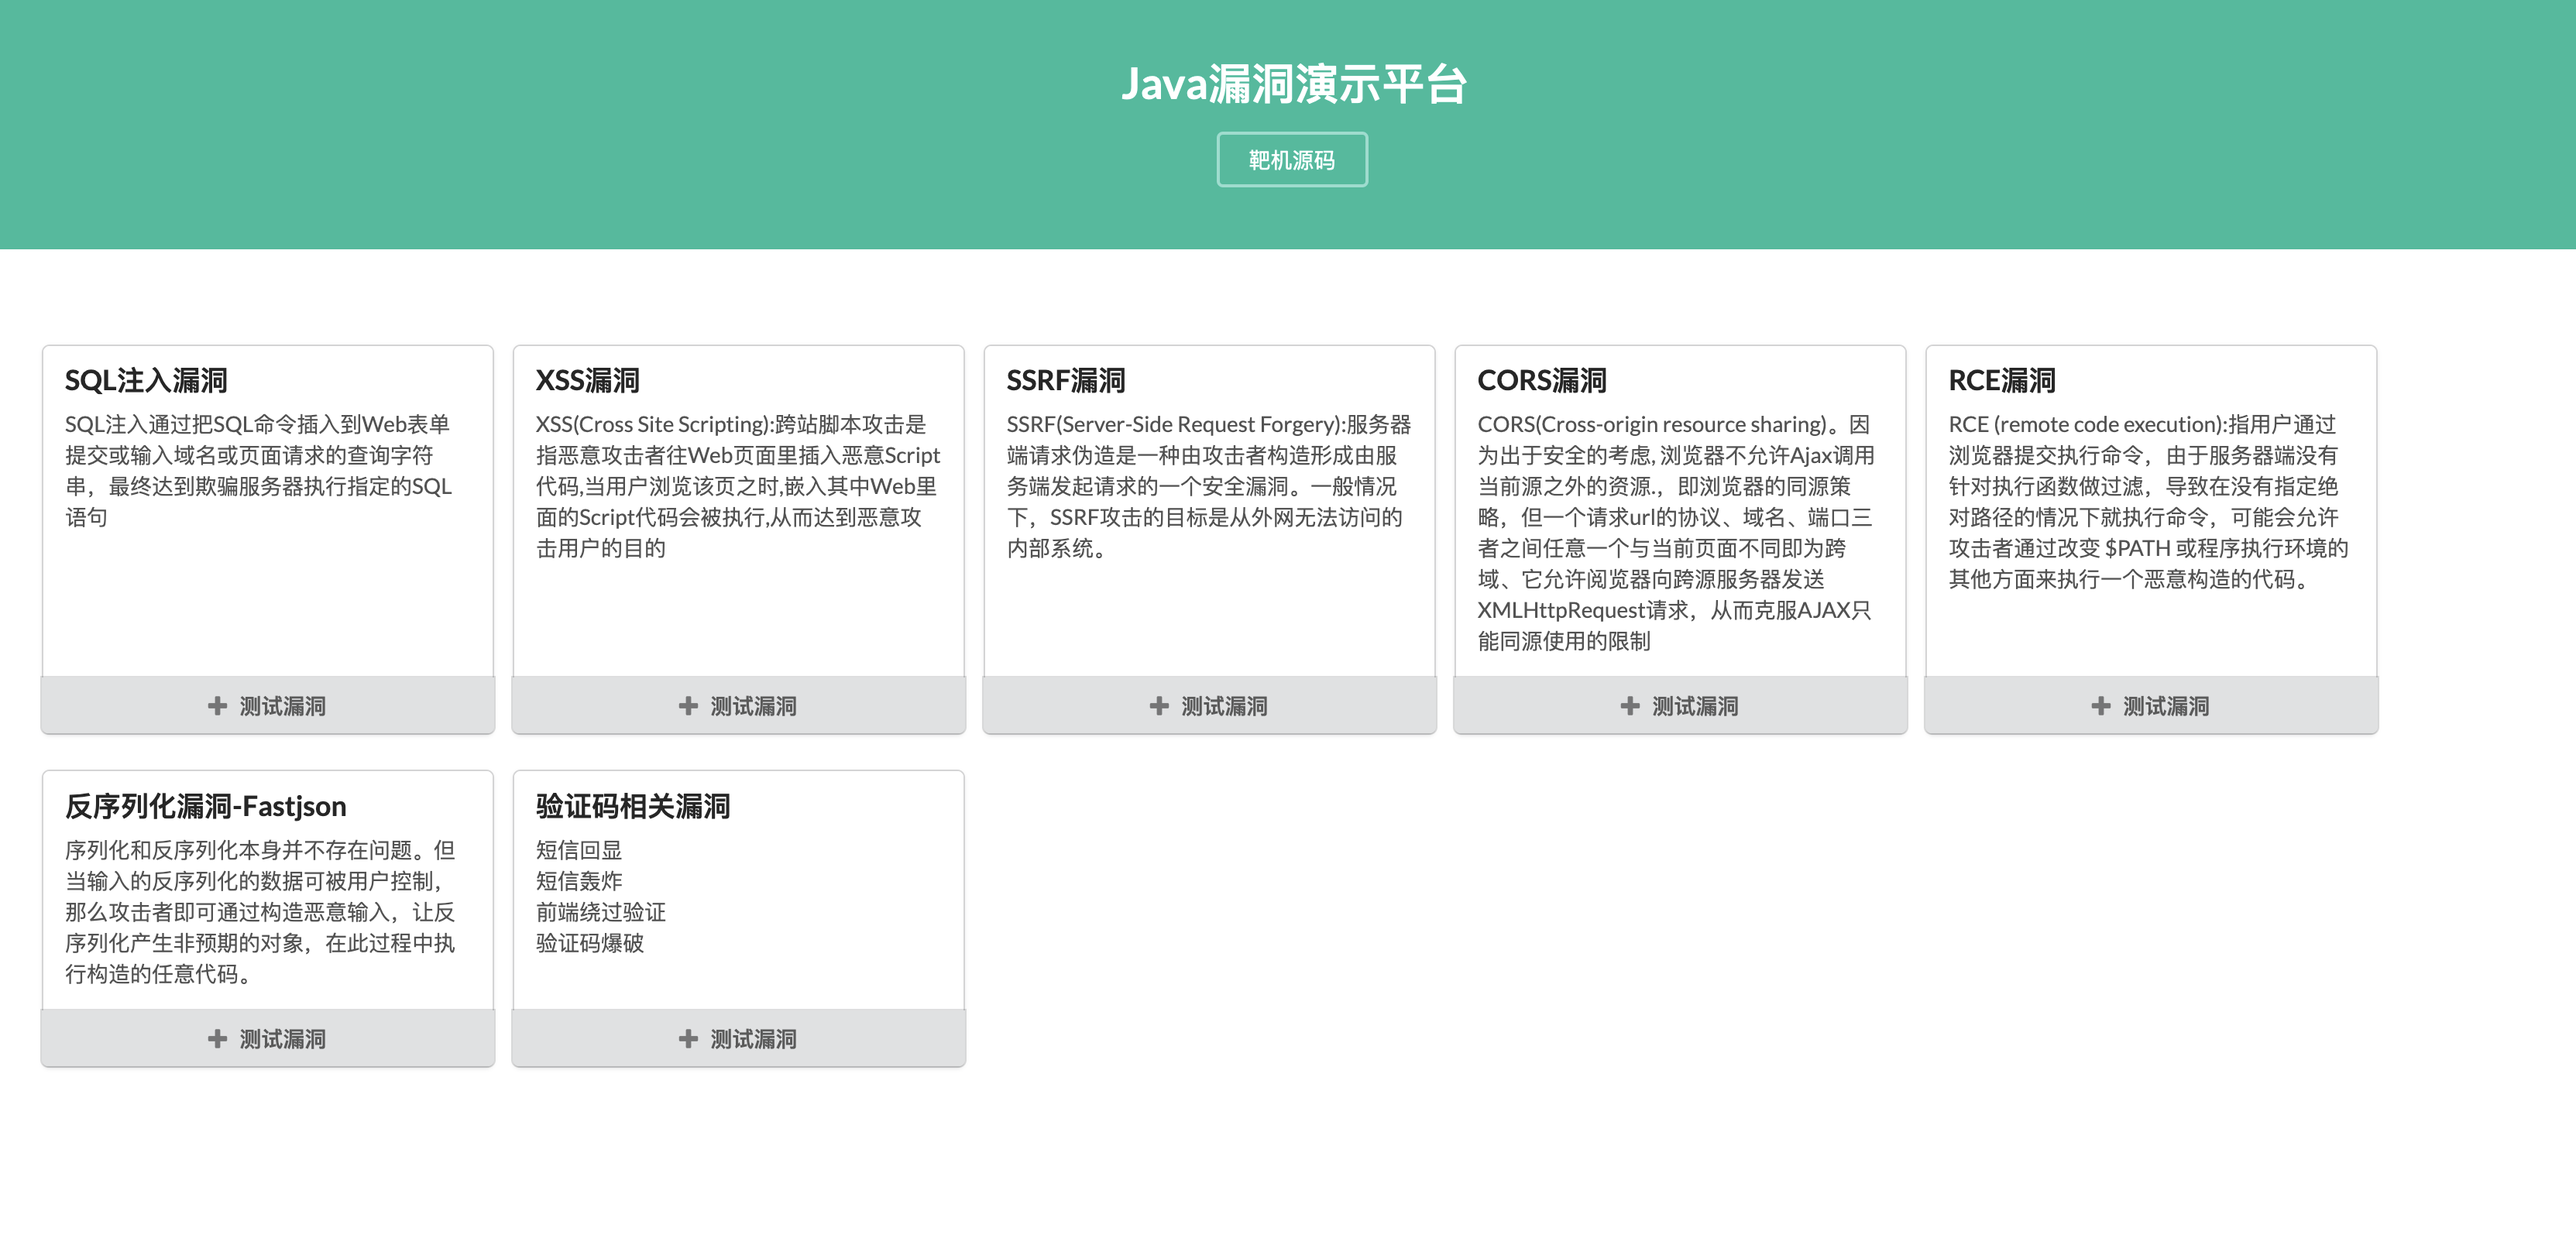
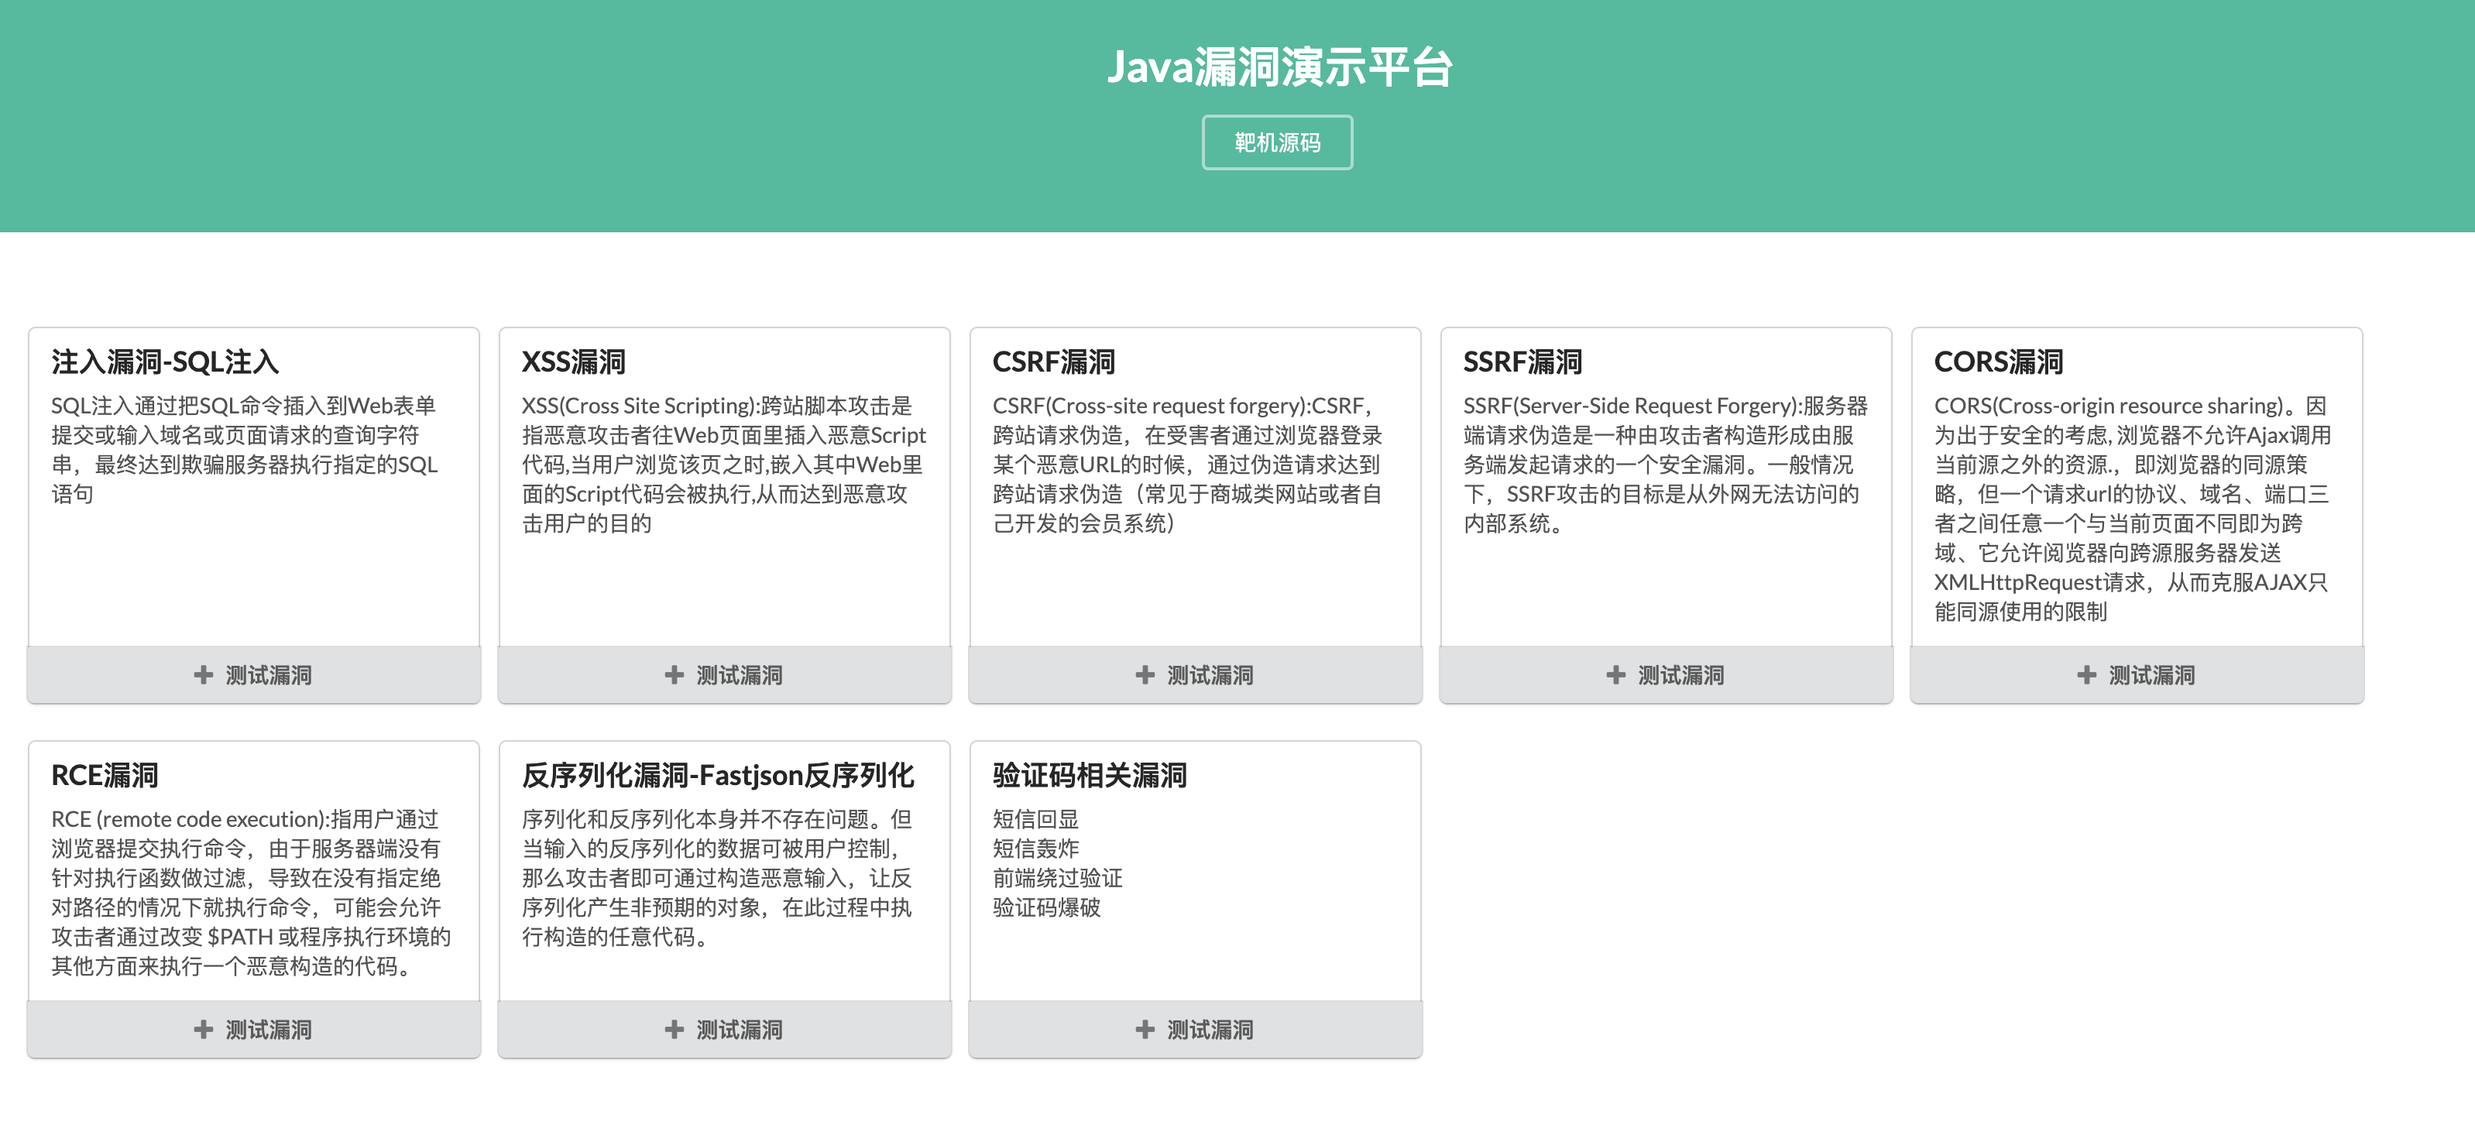
add csrf

Changed region(s): [[0.0, 0.2763, 0.9603, 0.9516], [0.0, 0.1842, 1.0, 0.2149], [0.4337, 0.0307, 0.5885, 0.1535]]

diff --git a/src/main/resources/templates/csrf/csrf.html b/src/main/resources/templates/csrf/csrf.html
@@ -1,10 +1,59 @@
 <!DOCTYPE html>
-<html lang="en">
+<html lang="en" xmlns:th="http://www.thymeleaf.org">
 <head>
   <meta charset="UTF-8">
-  <title>$Title$</title>
+  <title>Java漏洞靶场</title>
+  <link rel="stylesheet" href="https://cdn.jsdelivr.net/npm/semantic-ui@2.4.2/dist/semantic.min.css">
+  <script src="https://cdn.bootcdn.net/ajax/libs/jquery/3.6.0/jquery.js"></script>
 </head>
+
+
 <body>
-$END$
+
+<div style="padding: 40px;
+    text-align: center;
+    background: #1abc9c;
+    color: white;">
+  <h1>Java漏洞演示平台</h1>
+  <button class="ui inverted secondary basic button"><a style="color: white" th:href="home">回到首页</a></button>
+</div>
+
+<div style="text-align: center;margin: 0px auto;
+     margin-top: 50px;">
+  <input id="id" type="text" placeholder="请输入id"><br><br>
+  <input id="name" type="text" placeholder="请输入用户名"><br><br>
+  <input id="pwd" type="password" placeholder="请输入密码"><br><br>
+  <input id="start" type="submit" value="注册">
+  <p></p>
+</div>
+
+<script>
+$("#start").click(function () {
+        var user= {
+        "id" : $("#id").val(),
+        "name" : $("#name").val(),
+        "pwd" : $("#pwd").val()
+        };
+        $.ajax({
+            type : "POST",
+            async : true,
+            contentType: "application/x-www-form-urlencoded; charset=utf-8",
+            data : user,
+            success : function(){
+　　　　　　      alert('注册成功');
+                window.location.href ="../csrf";
+            },
+            error : function(){
+　　　　　　      alert('注册失败');
+                window.location.href ="../csrf";
+            },
+        })
+    }
+);
+
+<!--</script>-->
+
+
 </body>
 </html>
+

diff --git a/src/main/resources/templates/index.html b/src/main/resources/templates/index.html
@@ -36,6 +36,14 @@
     </div>
     <div class="card">
         <div class="content">
+            <div class="header">CSRF漏洞</div>
+            <div class="description">CSRF(Cross-site request forgery):CSRF，跨站请求伪造，在受害者通过浏览器登录某个恶意URL的时候，通过伪造请求达到跨站请求伪造（常见于商城类网站或者自己开发的会员系统）</div>
+        </div>
+        <a  class="ui bottom attached button" th:href="@{/csrf}" ><i class="add icon"></i>测试漏洞</a>
+
+    </div>
+    <div class="card">
+        <div class="content">
             <div class="header">SSRF漏洞</div>
             <div class="description">SSRF(Server-Side Request Forgery):服务器端请求伪造是一种由攻击者构造形成由服务端发起请求的一个安全漏洞。一般情况下，SSRF攻击的目标是从外网无法访问的内部系统。</div>
         </div>

diff --git a/src/main/resources/templates/csrf/csrfoutput.html b/src/main/resources/templates/csrf/csrfoutput.html
@@ -1,10 +1,23 @@
 <!DOCTYPE html>
-<html lang="en">
+<html lang="en" xmlns:th="http://www.thymeleaf.org">
 <head>
-  <meta charset="UTF-8">
-  <title>$Title$</title>
+    <meta charset="UTF-8">
+    <title>Java漏洞靶场</title>
+    <link rel="stylesheet" href="https://cdn.jsdelivr.net/npm/semantic-ui@2.4.2/dist/semantic.min.css">
 </head>
 <body>
-$END$
+
+<div style="padding: 40px;
+    text-align: center;
+    background: #1abc9c;
+    color: white;">
+    <h1>Java漏洞演示平台</h1>
+    <button class="ui inverted secondary basic button"><a style="color: white" th:href="home">回到首页</a></button>
+</div>
+
+<!--<div style="text-align: center;margin: 0px auto;-->
+<!--     margin-top: 50px;">结果为：<p th:text="${result.username}"></p>今年<p th:text="${result.age}"></p>岁-->
+
+<!--</div>-->
 </body>
 </html>

diff --git a/src/main/resources/templates/sql/sql.html b/src/main/resources/templates/sql/sql.html
@@ -26,9 +26,9 @@
             <input type="submit" value="搜索">
         </form>
         <p></p>
-        <p>提示</p>
-        <p>"txf" and "1"="1"</p>
-        <p>"txf" and "1"="2"</p>
+<!--        <p>提示</p>-->
+<!--        <p>"txf" and "1"="1"</p>-->
+<!--        <p>"txf" and "1"="2"</p>-->
     </div>
     <table class="ui celled table" style="margin-top: 40px">
         <thead>

diff --git a/src/main/java/com/suyu/secexample/csrf/controller/csrfcontroller.java b/src/main/java/com/suyu/secexample/csrf/controller/csrfcontroller.java
@@ -1,2 +1,42 @@
-package com.suyu.secexample.csrf.controller;public class csrfcontroller {
+package com.suyu.secexample.csrf.controller;
+
+import com.alibaba.fastjson.JSON;
+import com.alibaba.fastjson.JSONObject;
+import com.suyu.secexample.csrf.model.User;
+import com.suyu.secexample.csrf.service.UsernameService;
+import org.springframework.beans.factory.annotation.Autowired;
+import org.springframework.stereotype.Controller;
+import org.springframework.ui.Model;
+import org.springframework.web.bind.annotation.GetMapping;
+import org.springframework.web.bind.annotation.RequestBody;
+import org.springframework.web.bind.annotation.RequestMapping;
+
+@Controller
+public class csrfcontroller {
+    User user = new User();
+    @Autowired
+    private UsernameService userService;
+
+    @GetMapping("/csrf")
+    public String input() {
+        return "csrf/csrf";
+    }
+
+        @RequestMapping("/csrf")
+    public String addUser(User user1, Model model) {
+        user.setId(user1.getId());
+        user.setName(user1.getName());
+        user.setPwd(user1.getPwd());
+        userService.addUser(user);
+        return "csrf/csrf";
+    }
+
 }
+
+
+
+
+
+
+
+

diff --git a/src/main/java/com/suyu/secexample/csrf/service/impl/UsernameServiceImpl.java b/src/main/java/com/suyu/secexample/csrf/service/impl/UsernameServiceImpl.java
@@ -1,21 +1,20 @@
 package com.suyu.secexample.csrf.service.impl;
 
-
-import com.suyu.secexample.csrf.mapper.UserMapper;
+import com.suyu.secexample.csrf.mapper.UsernameMapper;
 import com.suyu.secexample.csrf.model.User;
-import com.suyu.secexample.csrf.service.UserService;
+import com.suyu.secexample.csrf.service.UsernameService;
 import org.springframework.beans.factory.annotation.Autowired;
 import org.springframework.stereotype.Service;
 
 import java.util.List;
 
 @Service
-public class UserServiceImpl implements UserService {
+public class UsernameServiceImpl implements UsernameService {
     @Autowired
-    private UserMapper userMapper;
+    private UsernameMapper usernameMapper;
 
     @Override
-    public List<User> addUser(User user) {
-        return userMapper.addUser(user);
+    public void addUser(User user) {
+        usernameMapper.addUser(user);
     }
 }

diff --git a/src/main/java/com/suyu/secexample/fastjson/controller/fastjsoncontroller.java b/src/main/java/com/suyu/secexample/fastjson/controller/fastjsoncontroller.java
@@ -13,14 +13,6 @@ public class fastjsoncontroller {
 
     @GetMapping("/fastjson")
     public String input(){
-//
-//        User user = new User();
-//        user.setAge("18");
-//        user.setUsername("txf");
-//        String ser1 = JSON.toJSONString(user);
-//        System.out.println(ser1);
-//        String ser2 = JSON.toJSONString(user, SerializerFeature.WriteClassName);
-//        System.out.println(ser2);
         return "fastjson/fastjson";
     }
 

diff --git a/src/main/java/com/suyu/secexample/csrf/model/User.java b/src/main/java/com/suyu/secexample/csrf/model/User.java
@@ -1,2 +1,14 @@
-package com.suyu.secexample.csrf.model;public class User {
+package com.suyu.secexample.csrf.model;
+
+import lombok.AllArgsConstructor;
+import lombok.Data;
+import lombok.NoArgsConstructor;
+
+@Data
+@NoArgsConstructor
+@AllArgsConstructor
+public class User {
+    private int id;
+    private String name;
+    private String pwd;
 }

diff --git a/src/main/java/com/suyu/secexample/csrf/service/UsernameService.java b/src/main/java/com/suyu/secexample/csrf/service/UsernameService.java
@@ -3,6 +3,6 @@ package com.suyu.secexample.csrf.service;
 import com.suyu.secexample.csrf.model.User;
 import java.util.List;
 
-public interface UserService {
-    public List<User> addUser(User user);
+public interface UsernameService {
+    public void addUser(User user);
 }

diff --git a/src/main/java/com/suyu/secexample/csrf/mapper/UsernameMapper.java b/src/main/java/com/suyu/secexample/csrf/mapper/UsernameMapper.java
@@ -8,6 +8,6 @@ import java.util.List;
 
 @Mapper
 @Repository
-public interface UserMapper {
-    public List<User> addUser(User user);
+public interface UsernameMapper {
+    public void addUser(User user);
 }

diff --git a/README.md b/README.md
@@ -14,6 +14,7 @@ https://github.com/tangxiaofeng7/SecExample
 | ---------------------- | ---- |
 | [SQLI]         | 🌟🌟  |
 | [XSS]             | 🌟    |
+| [CSRF]             | 🌟    |
 | [SSRF]            | 🌟🌟  |
 | [CORS]             | 🌟🌟    |
 | [RCE]             | 🌟🌟  |
